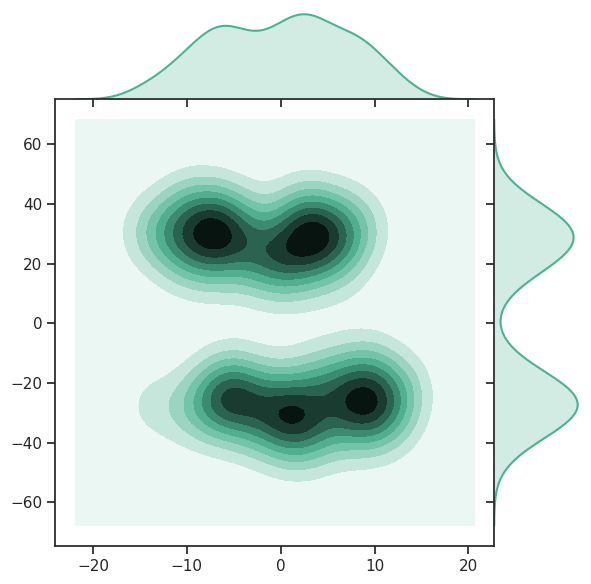
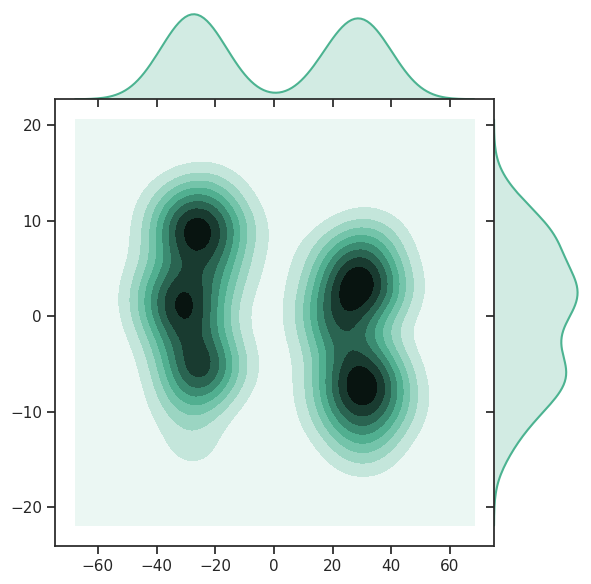
FixBugs

diff --git a/utils/plot_utils.py b/utils/plot_utils.py
@@ -14,7 +14,7 @@ def visualize_distribution(X,prediction,score):
     # plt.figure(1)
     # sns.jointplot(X_embedding[:,0], X_embedding[:,1], kind="hex", color="#4CB391")
     # plt.figure(2)
-    sns_plot=sns.jointplot(X_embedding[:,0], X_embedding[:,1], kind="kde", space=0, color="#4CB391")
+    sns_plot=sns.jointplot(X_embedding[:,1],X_embedding[:,0], kind="kde", space=0, color="#4CB391")
     sns_plot.savefig('./output/img/distribution.png')
 
 
@@ -34,7 +34,7 @@ def visualize_distribution_static(X,prediction,score):
     # outlier = X_outlier.query("outlier_label == 'outlier'")
     # inlier = X_outlier.query("outlier_label == 'inlier'")
 
-    new_sns = sns.scatterplot(y="x_emb", x="y_emb",hue = "score", sizes =20, palette = 'BuGn_r',legend = False, data = X_outlier)
+    new_sns = sns.scatterplot(x="x_emb", y="y_emb",hue = "score", sizes =20, palette = 'BuGn_r',legend = False, data = X_outlier)
     new_sns.get_figure().savefig('./output/img/distribution_withoutlier.png')
 
 

diff --git a/main.py b/main.py
@@ -25,7 +25,7 @@ if __name__ == '__main__':
     parser.add_argument('--random_seed',default=42, type=int)
     parser.add_argument('--database',default='db')
     parser.add_argument('--table',default='t')
-    parser.add_argument('--time_serie',default=True)
+    parser.add_argument('--time_serie',default=False)
     parser.add_argument('--visualize_distribution',default=True)
     parser.add_argument('--algorithm',default='luminol',choices=['iforest','lof','ocsvm','robustcovariance','staticautoencoder','luminol','cblof','knn','hbos','sod','pca','dagmm','autoencoder','lstm_ad','lstm_ed'])
     parser.add_argument('--contamination',default=0.05)
